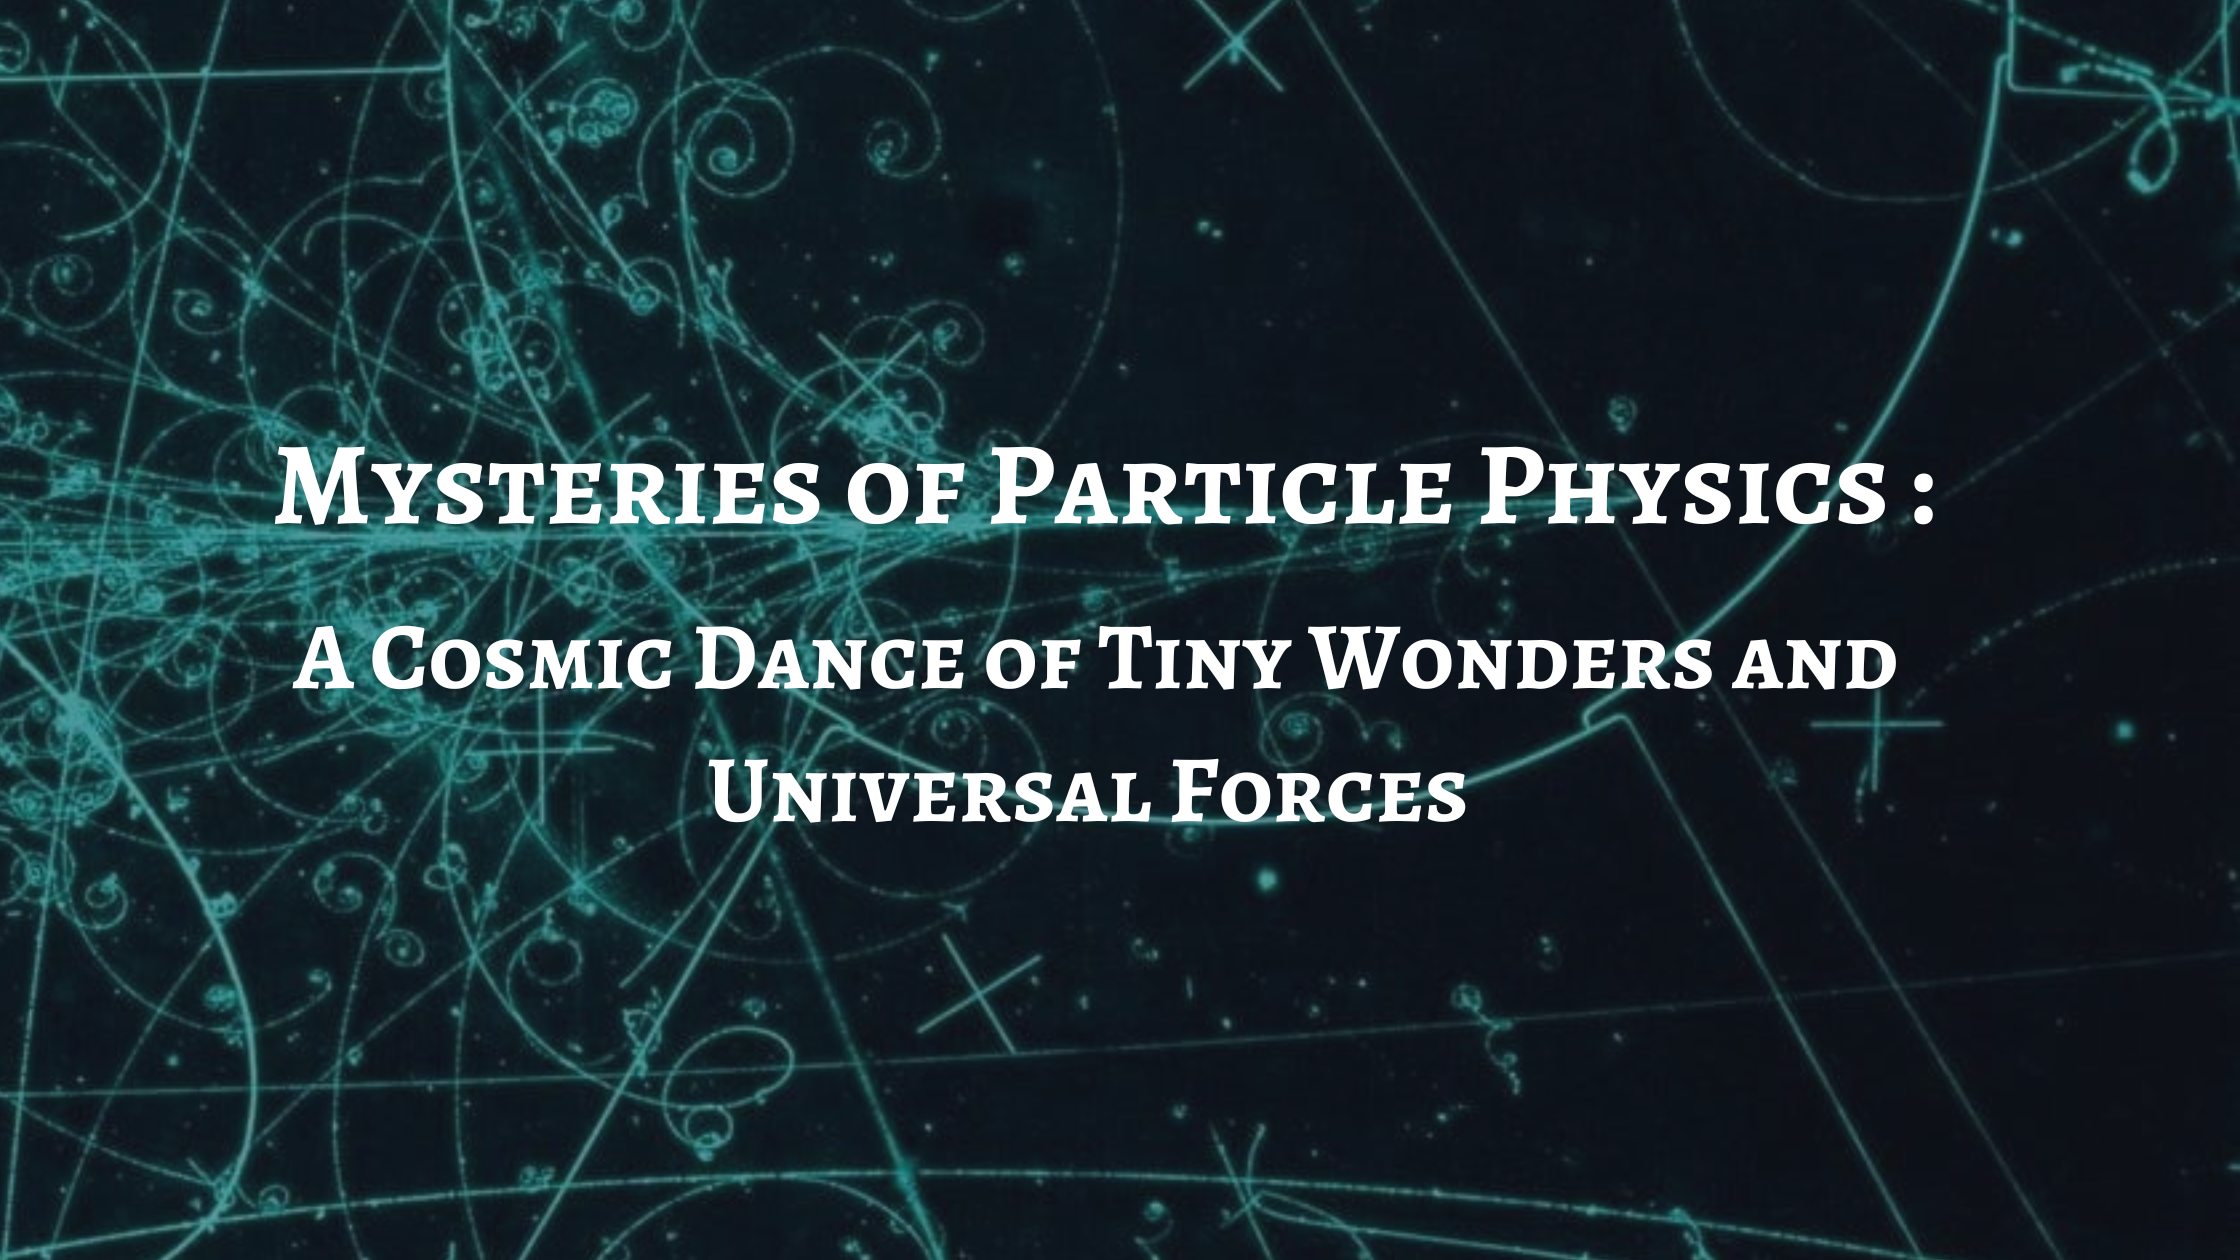
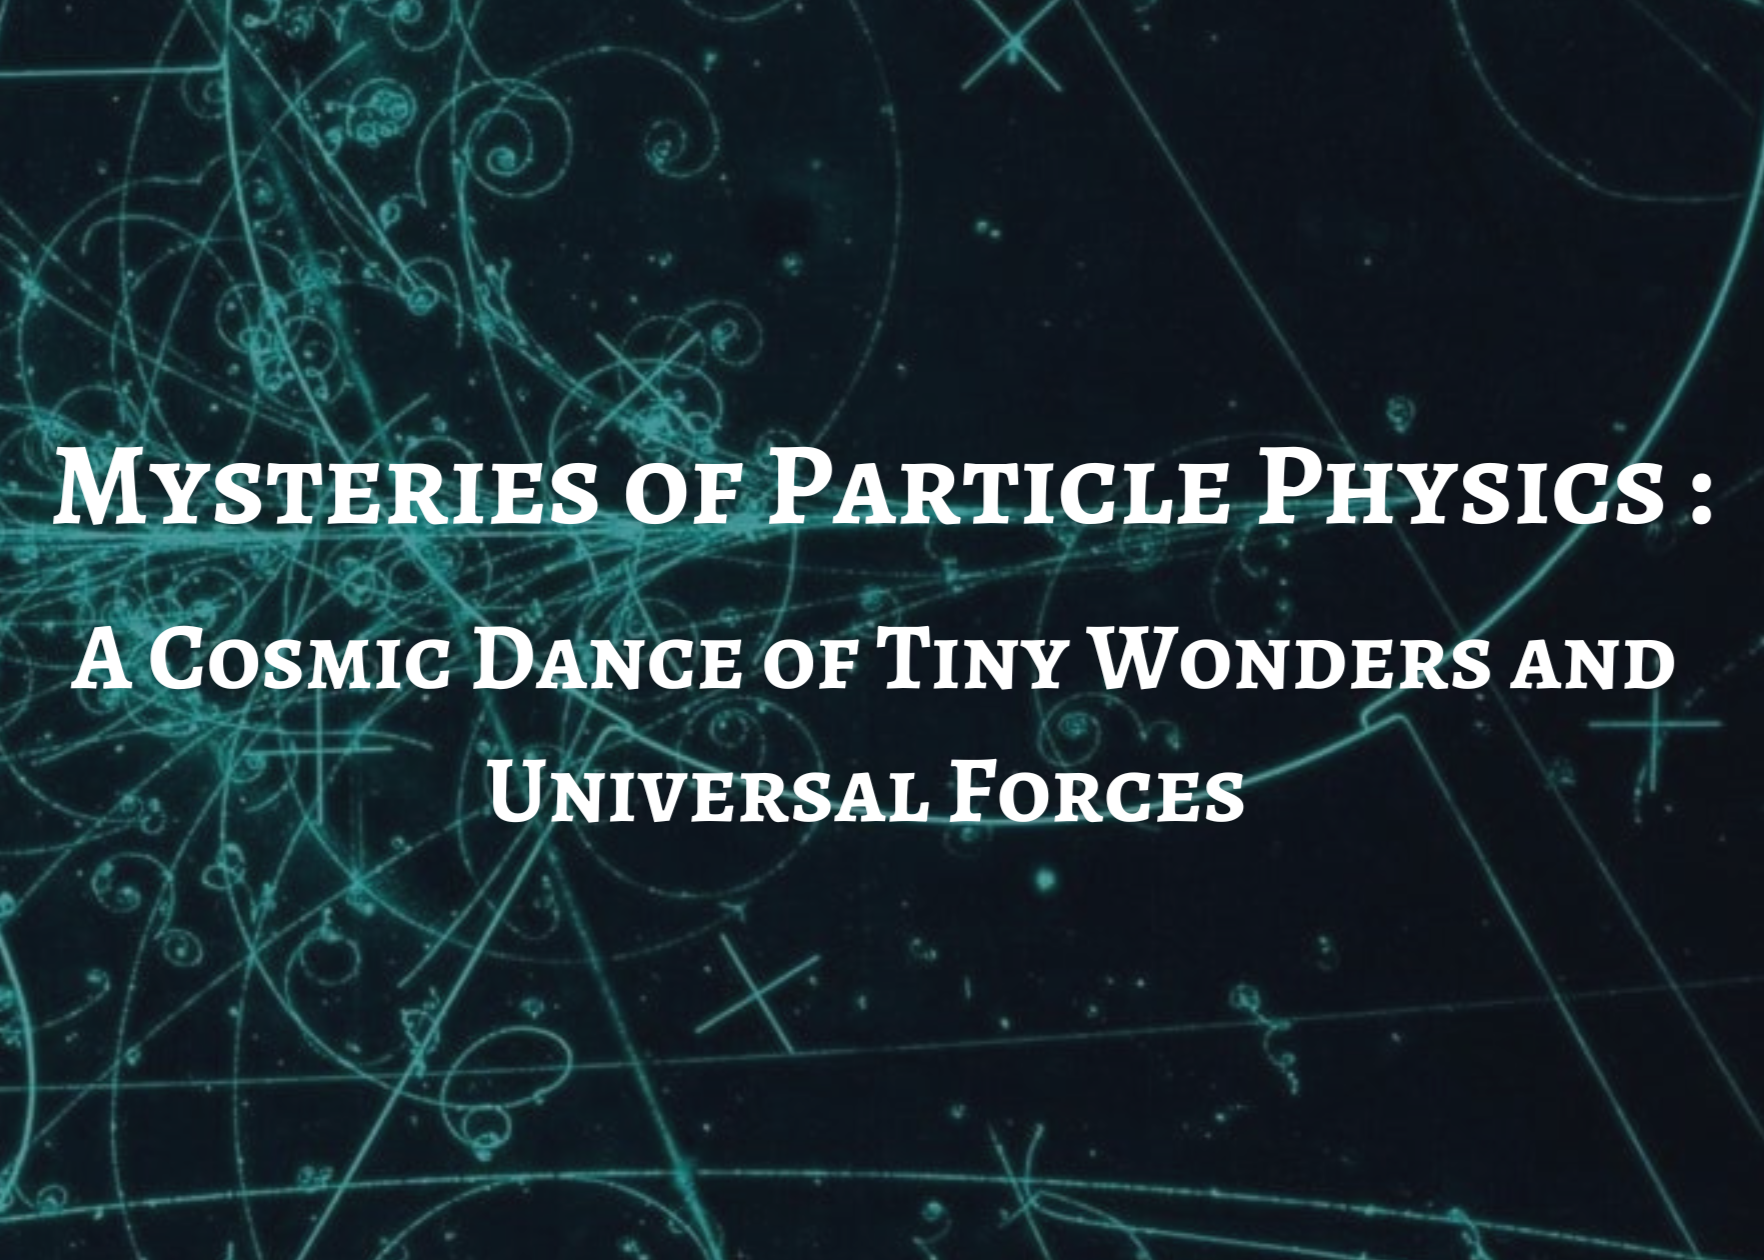
Image orientation changed, and overflow solved

diff --git a/PICTOBLOG/blogs/blog2.html b/PICTOBLOG/blogs/blog2.html
@@ -120,7 +120,7 @@
                     
                     <div class="flex">
                         <div class="blog-content-image" style="margin-right: 10px;">
-                            <img style="width: 180px;" src="../images/blog2_content_img3.png" />
+                            <img style="width: 180px; gap: 0px;" src="../images/blog2_content_img3.png" />
                         </div>
                         <p>
                             In the subatomic realm, particles are the stars of the show. Meet the quarks, <b

diff --git a/PICTOBLOG/Main page/index.html b/PICTOBLOG/Main page/index.html
@@ -91,7 +91,7 @@
         </div>
         <div class="blog_card">
           <div class="blog-image">
-            <img src="../images/blog2_poster_img.png" />
+            <img style="width: 250px;" src="../images/blog2_poster_img.png" />
           </div>
           <div class="blog_card_content">
             <h2 class="blog-title">Mysteries of Particle Physics</h2>

diff --git a/PICTOBLOG/blogs/blog2.css b/PICTOBLOG/blogs/blog2.css
@@ -1,6 +1,5 @@
 .flex .blog-content-image img{
     width: 350px;
-    margin: 10px;
 }
 
 .blog-content-image img{
@@ -9,6 +8,7 @@
 
 .flex{
     display: flex;
+    gap: 20px;
 }
 
 .flex blog-content-image img{

diff --git a/PICTOBLOG/Main page/style.css b/PICTOBLOG/Main page/style.css
@@ -28,6 +28,7 @@ main h2 {
     display: grid;
     justify-content: center;
     margin-top: 24px;
+    overflow: hidden;
 }
 
 .blog_card_container {
